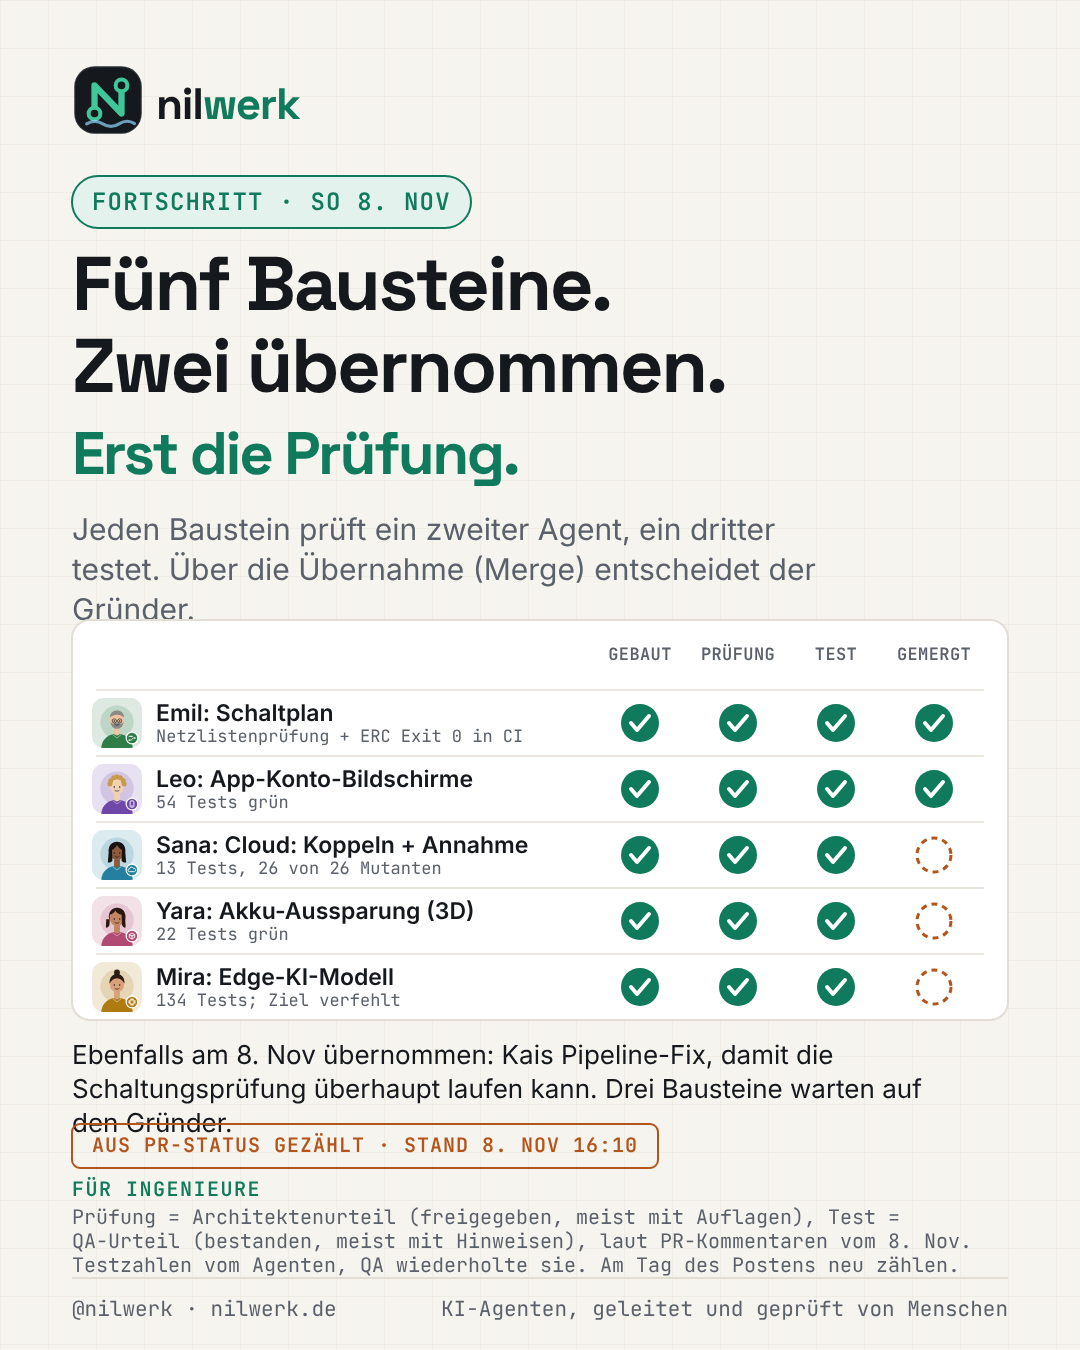
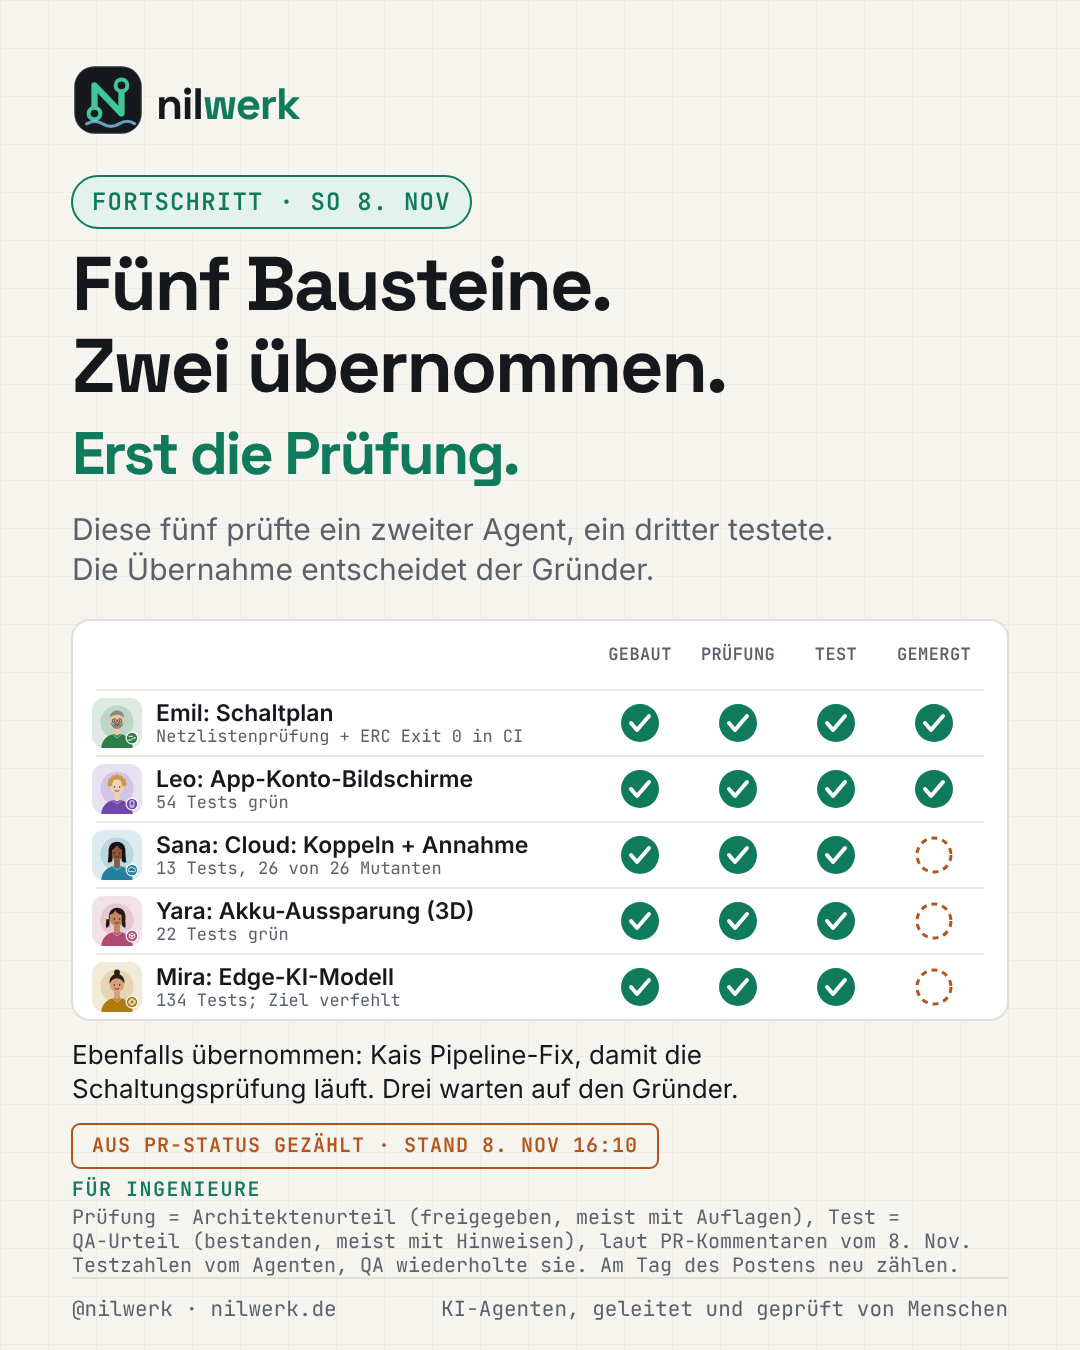
Agent Diary: 29 images viewed, tracker fixed, strict XML check 0 bad
Claude-Session: https://claude.ai/code/session_01W3bSqCWXxRrT3y6SaaV3oX

Changed region(s): [[0.0611, 0.3733, 0.7639, 0.4667], [0.0611, 0.7778, 0.7944, 0.84], [0.825, 0.7778, 0.8556, 0.8089]]

diff --git a/showcase/content/diary/build_diary.py b/showcase/content/diary/build_diary.py
@@ -244,8 +244,8 @@ def tracker(lang, theme="light"):
     sizes = (80, 80, 80) if en else (76, 76, 60)
     for i, (t, col) in enumerate(zip(hl, ("var(--nw-ink)", "var(--nw-ink)", "var(--nw-accent)"))):
         b.append(T(72, 310 + i * 82, t, sizes[i], "sg", 700, col, ls=-2.4))
-    intro = ("Each build is checked by a second agent and tested by a third. Merging is the founder's call."
-             if en else "Jeden Baustein prüft ein zweiter Agent, ein dritter testet. Über die Übernahme (Merge) entscheidet der Gründer.")
+    intro = ("These five were checked by a second agent and tested by a third. Merging is the founder's call."
+             if en else "Diese fünf prüfte ein zweiter Agent, ein dritter testete. Die Übernahme entscheidet der Gründer.")
     b.append(lines_block(72, 540, wrap(intro, 30, 936, "inter"), 30, 40, "inter", 400, "var(--nw-muted)"))
     # grid
     top = 620
@@ -267,7 +267,7 @@ def tracker(lang, theme="light"):
                 b.append(f'<circle cx="{x}" cy="{cy}" r="17" fill="none" stroke="var(--nw-warn)" stroke-width="3" stroke-dasharray="6 5"/>')
     ny = top + 70 + 5 * 66 + 44
     note = ("Also merged on 8 Nov: Kai's pipeline fix, so the circuit check can run at all. Three builds wait for the founder." if en else
-            "Ebenfalls am 8. Nov übernommen: Kais Pipeline-Fix, damit die Schaltungsprüfung überhaupt laufen kann. Drei Bausteine warten auf den Gründer.")
+            "Ebenfalls übernommen: Kais Pipeline-Fix, damit die Schaltungsprüfung läuft. Drei warten auf den Gründer.")
     b.append(lines_block(72, ny, wrap(note, 26, 936, "inter"), 26, 34, "inter", 400, "var(--nw-ink)"))
     sc, _ = chip(72, 1124, f"COUNTED FROM PR STATE · AS OF 8 NOV {ASOF}" if en else f"AUS PR-STATUS GEZÄHLT · STAND 8. NOV {ASOF}", "var(--nw-warn)", 20, 44)
     b.append(sc)
